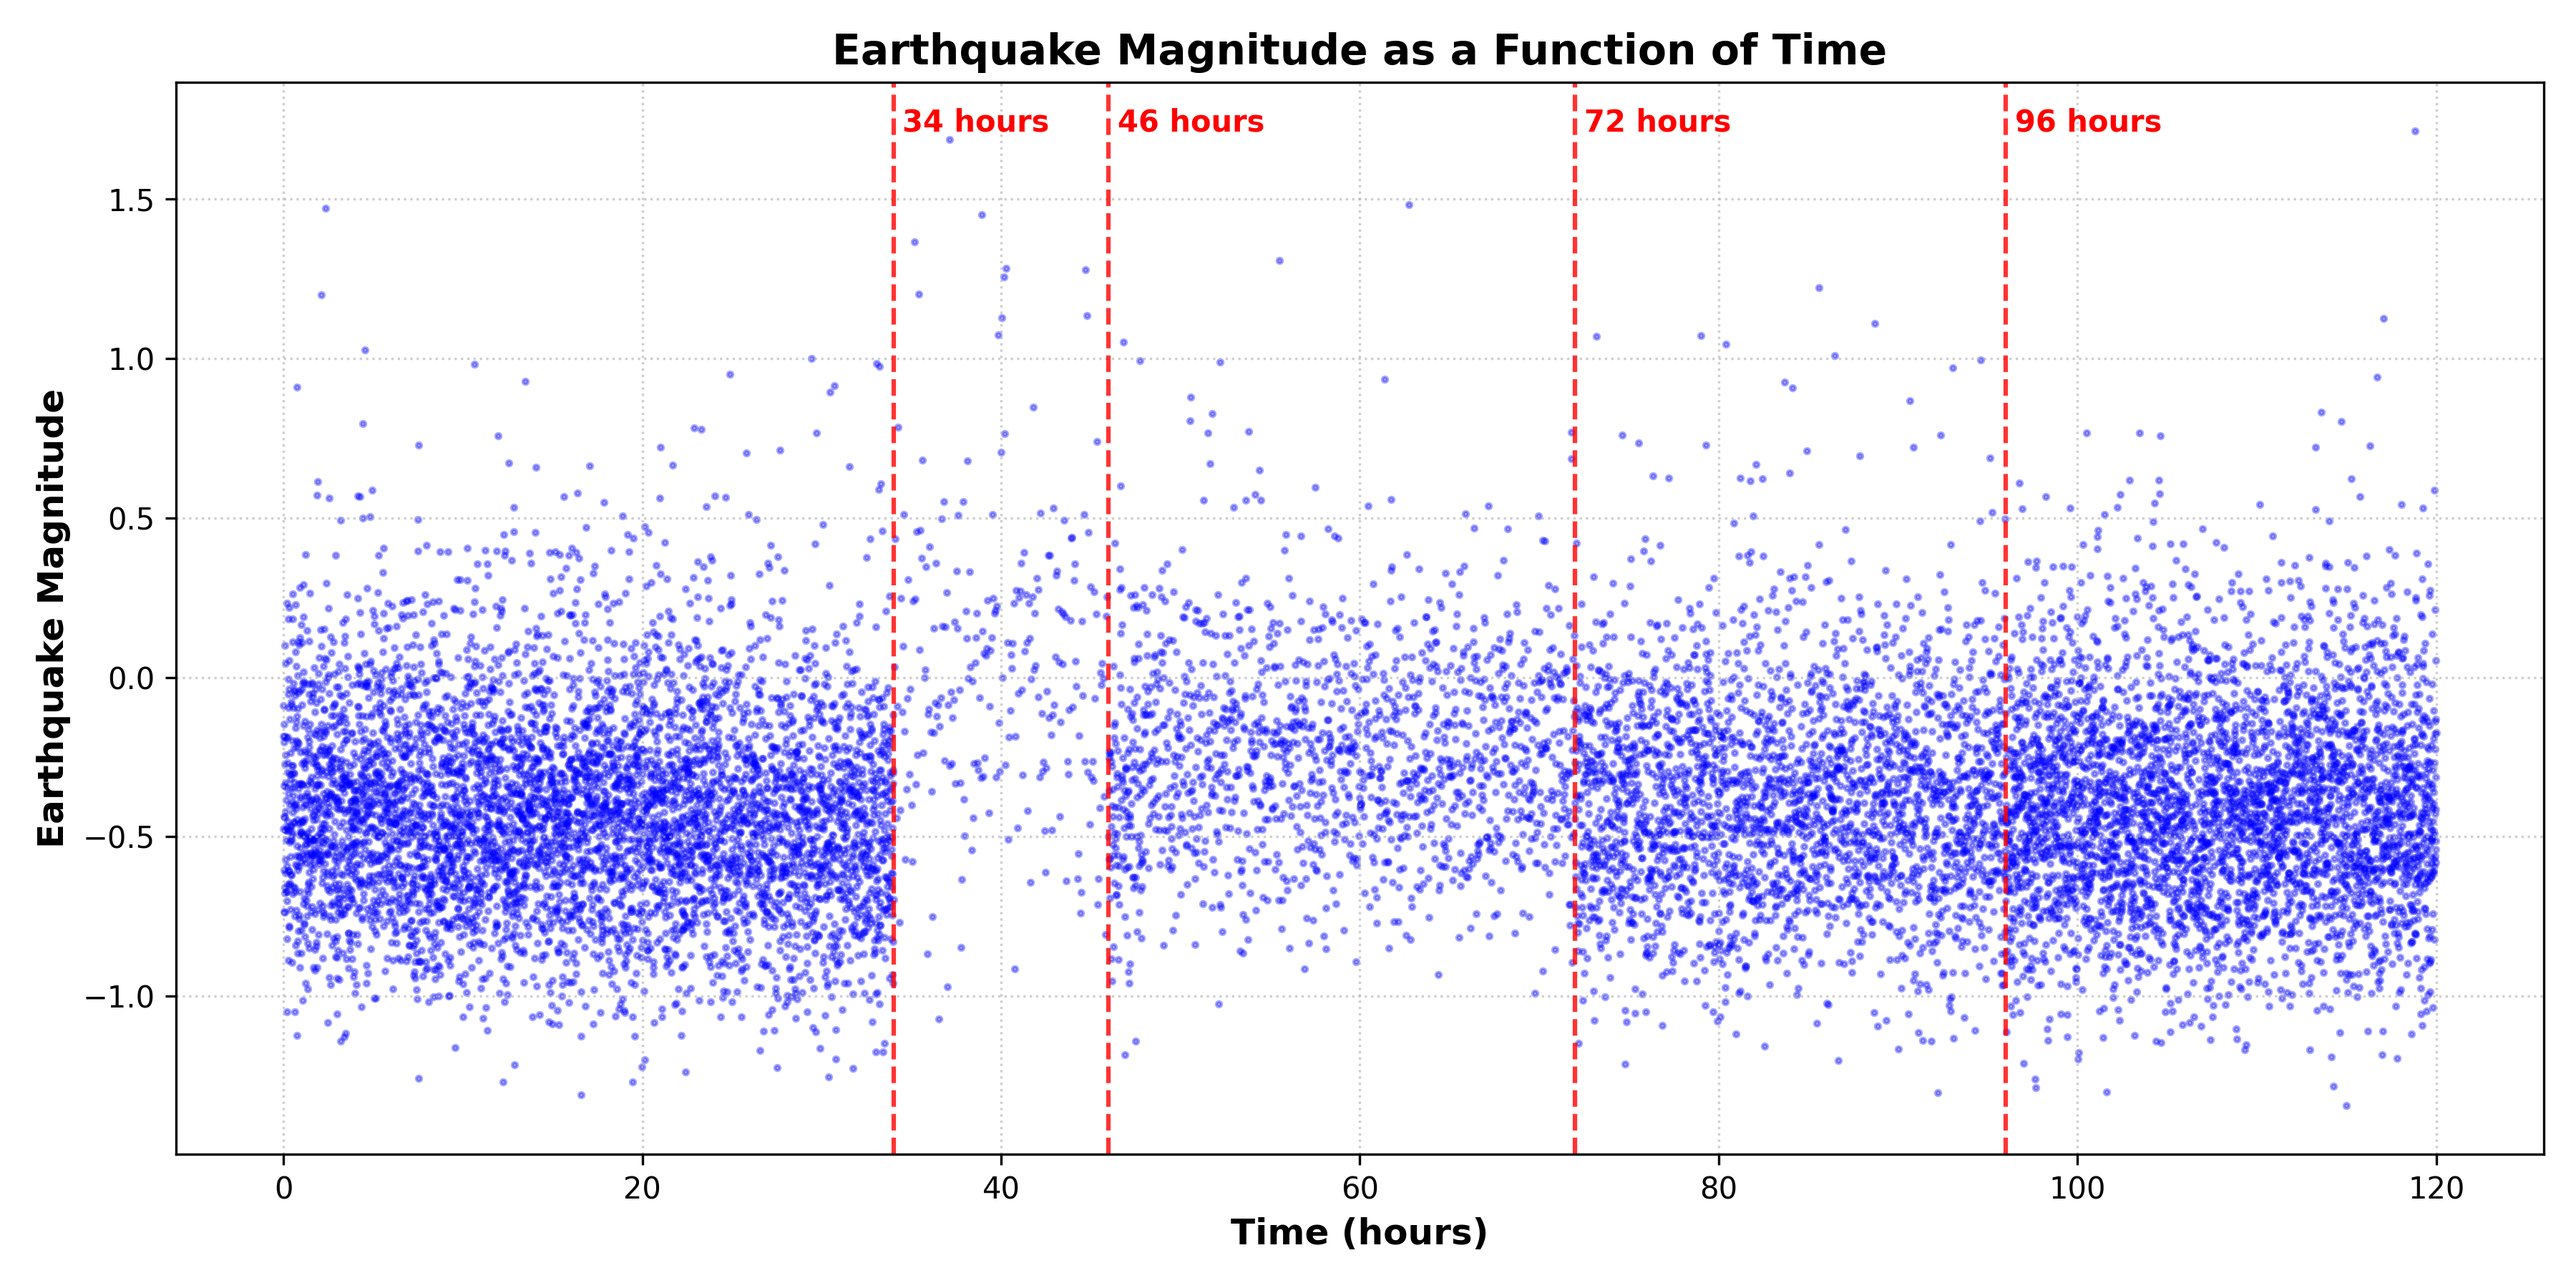
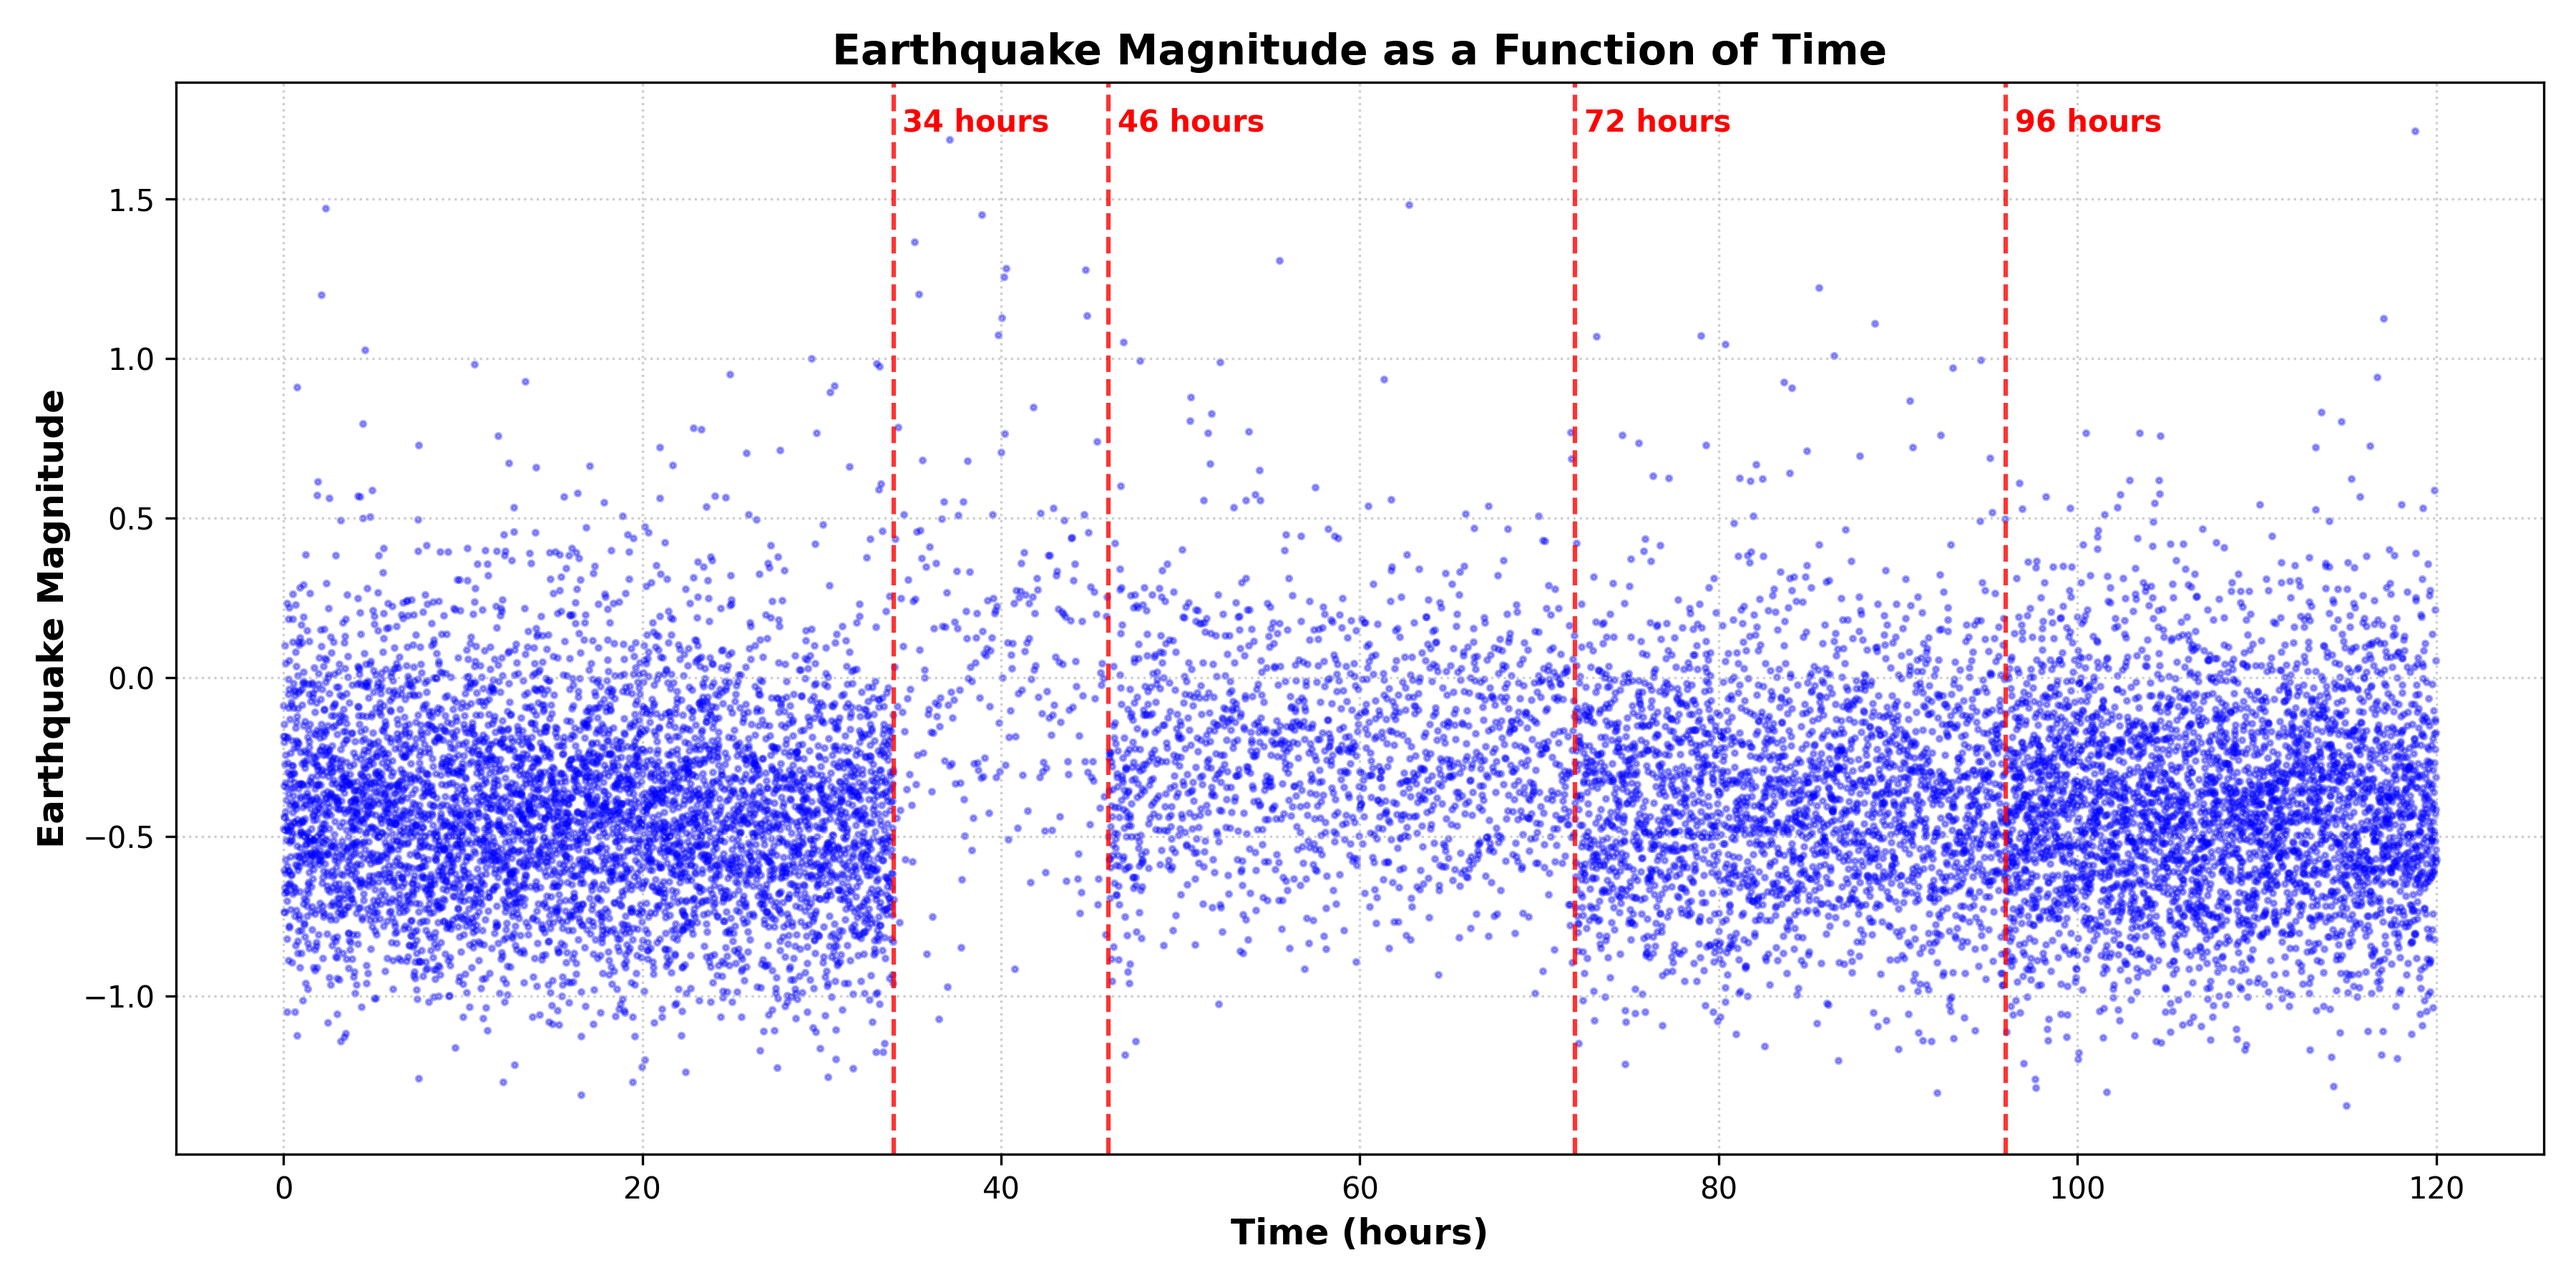
remove useless lines and fixed any minor code errors

diff --git a/examples/raw_driver.py b/examples/raw_driver.py
@@ -5,30 +5,15 @@ import matplotlib.pyplot as plt
 def main():
     data = np.loadtxt("../data/M_data1.txt")
 
-    t = data[:,0]  # dependent data
-    m_data = data[:,1]  # independent data
-
-    k_120 = np.argwhere(t < 120)[-1]  # find indices when t is less than 120 and select last index
-    print(f'time (120): {k_120}')
-    print(f'time at k_120: {t[k_120]}')
-
-    k_120 = int(k_120)
-    t = t[0:k_120]  # slice t to only include values less than 120
-    print(t[0:k_120])
-
-    mk_120 = np.argwhere(m_data < 120)[-1]  # find indices when t is less than 120 and select last index
-    print(f'm data (120): {mk_120}')
-    print(f'm data at mk_120: {m_data[mk_120]}')
-
-    m_data = m_data[0:k_120]  # slice m_data to only include values less than 120
-    print(m_data[0:k_120])
+    t = data[:, 0]  # dependent data
+    m_data = data[:, 1]  # independent data
 
     plt.figure(figsize=(12, 6))
     plt.scatter(t, m_data, color='blue', s=3, alpha=0.35, label='Magnitude Data')  # s is for size, alpha is for trans
 
     x_list = [34, 46, 72, 96]  # via testing
     for x in x_list:
-        plt.axvline(x=x, color='red',linestyle='--', alpha=0.8)
+        plt.axvline(x=x, color='red', linestyle='--', alpha=0.8)
         plt.text(x + 0.5, max(m_data), f"{x} hours", color='red', fontsize=10, weight='bold')
 
     plt.xlabel('Time (hours)', fontsize=12, weight='bold')
